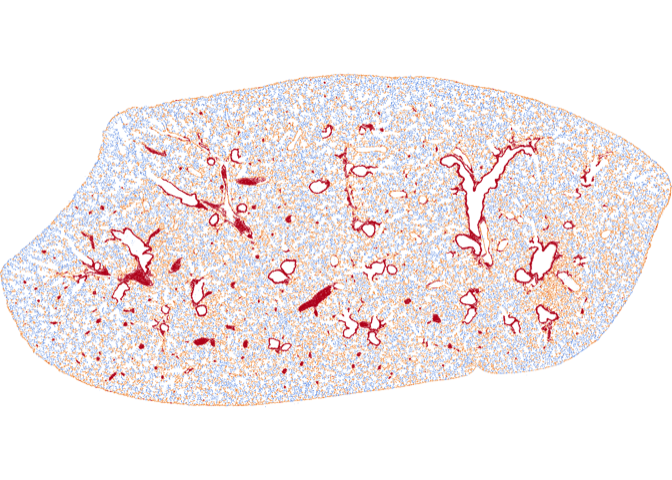
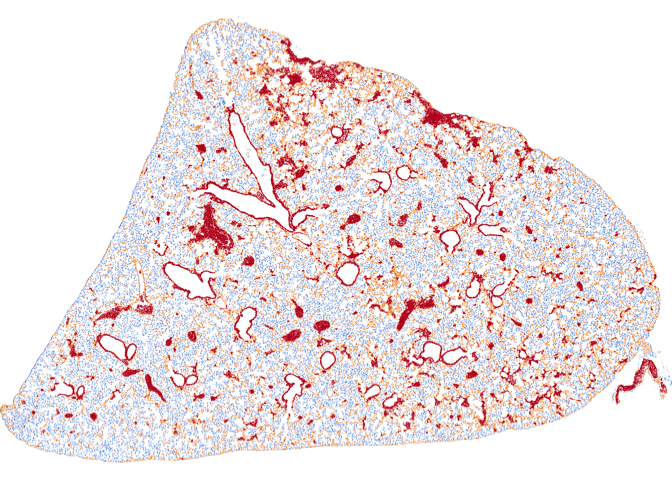
choose representative images of bleo injury

diff --git a/README.md b/README.md
@@ -206,11 +206,11 @@ centres and that ordering.
 fit <- fq_fit(spec, sections)
 fit@centers   # one row per grade, in a*b* space
 #>          a         b
-#> 3 23.67767 -16.50789
-#> 1 32.01626 -21.90740
-#> 2 48.24739 -26.15657
+#> 3 23.66581 -16.49723
+#> 1 31.99283 -21.90516
+#> 2 48.22846 -26.12191
 fit@luminance # mean L* per grade, mildest to most severe
-#> [1] 69.98247 66.83175 64.28933
+#> [1] 69.98785 66.81713 64.30294
 ```
 
 **Scoring.** `fq_score()` applies the basis to one section and measures
@@ -222,7 +222,7 @@ fq_score(fit, sec)
 #> # A tibble: 1 × 4
 #>   severity_index frac_sev_1 frac_sev_2 frac_sev_3
 #>            <dbl>      <dbl>      <dbl>      <dbl>
-#> 1           3.80      0.420      0.400      0.180
+#> 1           3.80      0.419      0.401      0.180
 ```
 
 **Mapping.** `fq_render()` labels each tissue pixel with its grade and
@@ -248,7 +248,7 @@ they ride through to the results.
 manifest <-
   fq_manifest(dirname(vsi)) |>
   dplyr::filter(!grepl("_01", slide_id)) |>
-  dplyr::slice_head(n = 4)
+  dplyr::filter(stringr::str_detect(slide_id, "3470|3472|3478|3479"))
 manifest$treatment <- c("saline", "saline", "bleo", "bleo")
 manifest
 #> # A tibble: 4 × 3
@@ -256,8 +256,8 @@ manifest
 #>   <chr>      <chr>                                           <chr>    
 #> 1 Image_3470 /Volumes/Will/Mouse lung 6.10.26/Image_3470.vsi saline   
 #> 2 Image_3472 /Volumes/Will/Mouse lung 6.10.26/Image_3472.vsi saline   
-#> 3 Image_3473 /Volumes/Will/Mouse lung 6.10.26/Image_3473.vsi bleo     
-#> 4 Image_3474 /Volumes/Will/Mouse lung 6.10.26/Image_3474.vsi bleo
+#> 3 Image_3478 /Volumes/Will/Mouse lung 6.10.26/Image_3478.vsi bleo     
+#> 4 Image_3479 /Volumes/Will/Mouse lung 6.10.26/Image_3479.vsi bleo
 ```
 
 `fq_run()` fits the analyzer once on a representative subsample of the
@@ -273,14 +273,14 @@ result@scores
 #> # A tibble: 8 × 7
 #>   slide_id   section severity_index frac_sev_1 frac_sev_2 frac_sev_3 treatment
 #>   <chr>      <chr>            <dbl>      <dbl>      <dbl>      <dbl> <chr>    
-#> 1 Image_3470 A                 4.21      0.352      0.455      0.193 saline   
-#> 2 Image_3470 B                 4.55      0.296      0.499      0.205 saline   
-#> 3 Image_3472 A                 2.93      0.534      0.347      0.119 saline   
-#> 4 Image_3472 B                 3.30      0.456      0.427      0.117 saline   
-#> 5 Image_3473 A                 3.83      0.412      0.409      0.179 bleo     
-#> 6 Image_3473 B                 3.72      0.438      0.380      0.182 bleo     
-#> 7 Image_3474 A                 4.26      0.324      0.500      0.176 bleo     
-#> 8 Image_3474 B                 4.75      0.241      0.567      0.192 bleo
+#> 1 Image_3470 A                 4.22      0.367      0.424      0.210 saline   
+#> 2 Image_3470 B                 4.59      0.310      0.463      0.227 saline   
+#> 3 Image_3472 A                 2.90      0.549      0.322      0.129 saline   
+#> 4 Image_3472 B                 3.29      0.470      0.401      0.129 saline   
+#> 5 Image_3478 A                 4.97      0.315      0.375      0.309 bleo     
+#> 6 Image_3478 B                 4.88      0.320      0.383      0.297 bleo     
+#> 7 Image_3479 A                 5.84      0.195      0.442      0.363 bleo     
+#> 8 Image_3479 B                 5.88      0.190      0.444      0.366 bleo
 ```
 
 The result also carries everything needed to redraw any section’s
@@ -289,7 +289,7 @@ read-and-split from the recipe the run recorded and renders the section
 through the run’s fit, returning a plottable field in one call:
 
 ``` r
-plot(fq_map(result, "Image_3470", "A"))
+plot(fq_map(result, "Image_3478", "A"))
 
 # `[[` is the terse shorthand for the same thing:
 #   result[["Image_3470", "A"]]